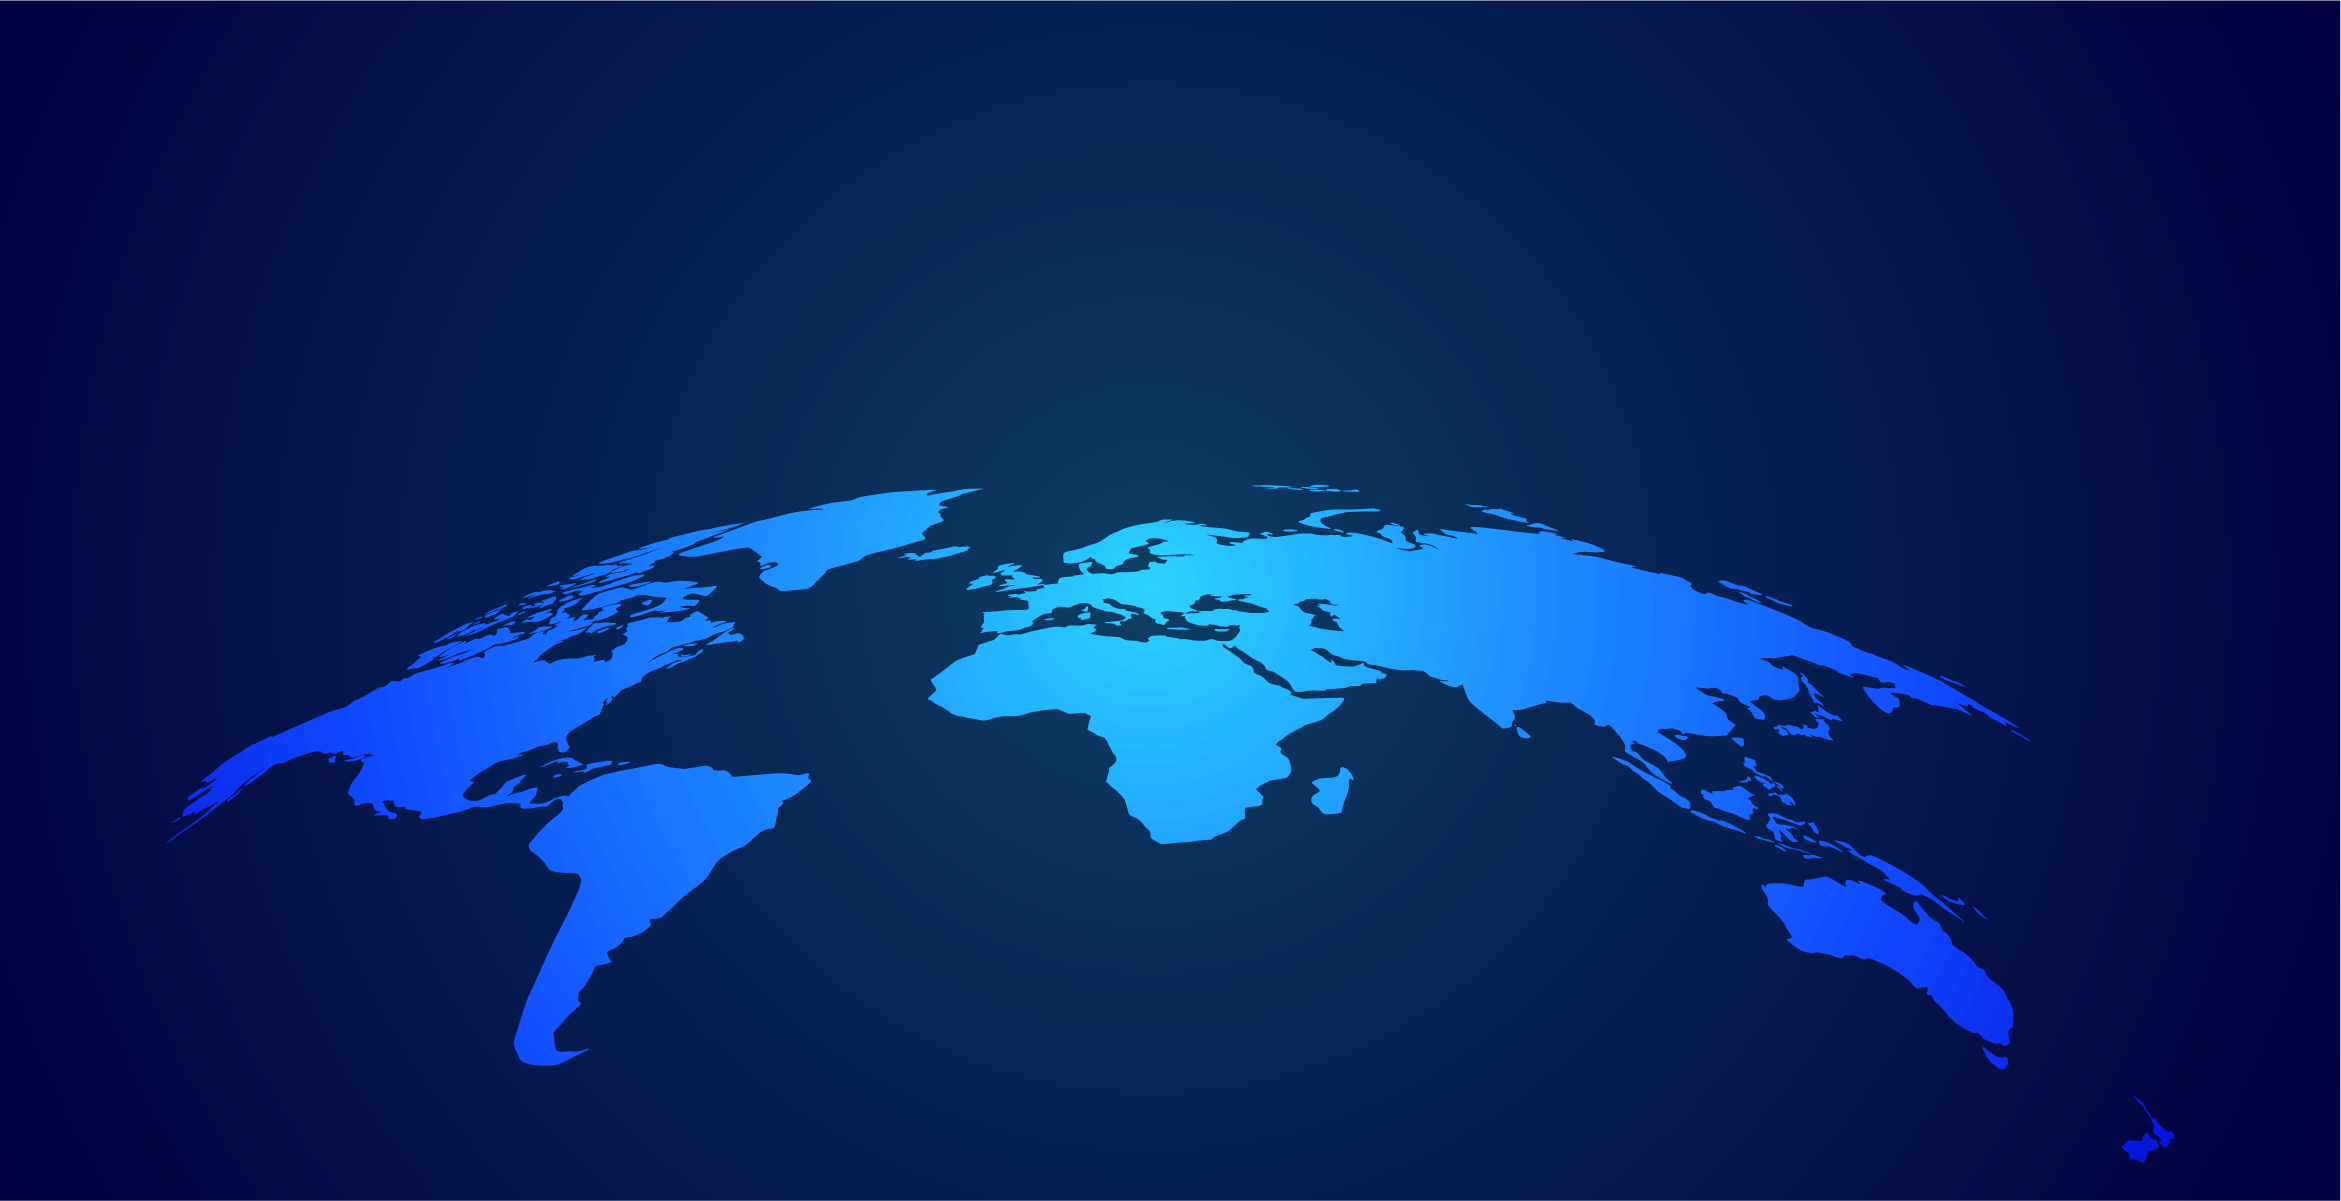
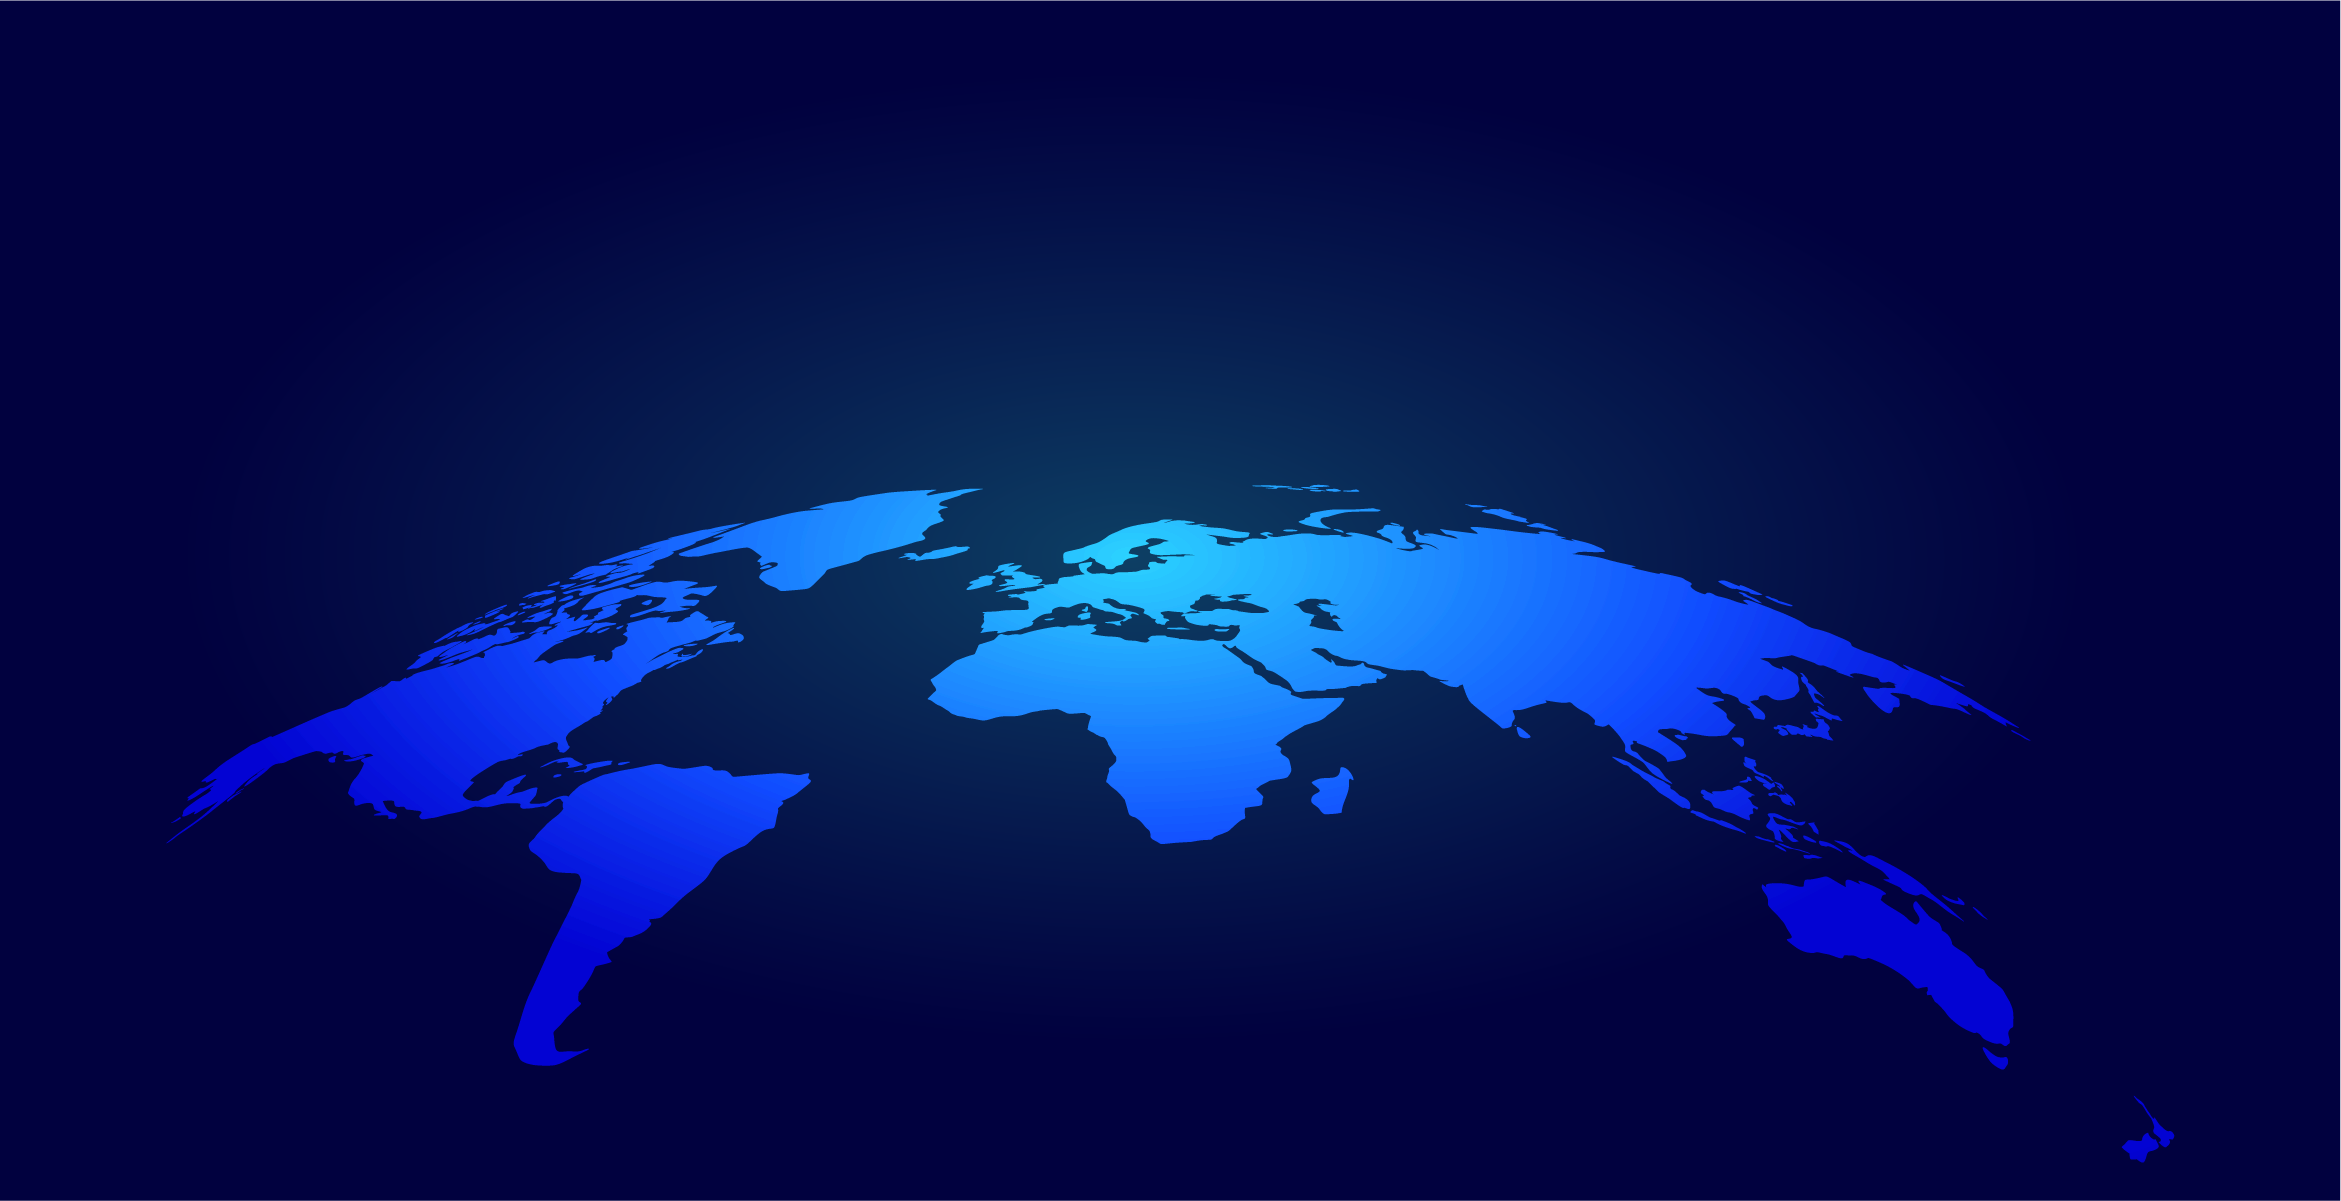
some more changes added

Changed region(s): [[0.0624, 0.4313, 0.8731, 1.0], [0.2183, 0.0, 0.7484, 0.2157], [0.8419, 0.5853, 0.8731, 0.6162]]

diff --git a/assets/css/app.css b/assets/css/app.css
@@ -1,10 +1,10 @@
-@import url('https://fonts.googleapis.com/css2?family=Eczar:wght@400;500&display=swap');
+@import url('https://fonts.googleapis.com/css2?family=Poppins:wght@300;400;500&display=swap');
 body{
     overflow-x: hidden;
     /* background: rgb(3,62,134); */
     /* background: radial-gradient(circle, rgba(3,62,134,1) 13%, rgba(0,11,115,1) 65%); */
     color: white;
-    font-family: 'Eczar', serif;
+    font-family: 'Poppins', sans-serif;    
     font-size: 13px;
 
 }
@@ -25,10 +25,12 @@ body{
 }
 h1.main_head{
     text-align: center;
+    font-size: 33px;
+    margin-bottom: 15px;
 }
 p.main_para{
     text-align: center;
-    font-size: 18px;
+    font-size: 16px;
     margin-bottom: 80px;
     width: 50%;
     margin: auto;
@@ -36,12 +38,13 @@ p.main_para{
 h3.side_head{
     background-color: #f4d03f;
     background-image: linear-gradient(132deg, #f4d03f 0%, #16a085 100%);
+    font-size: 20px;
     -webkit-background-clip: text;
     color: transparent;
 }
 .country_name{
     padding: 10px 20px;
-    font-size: 20px;
+    font-size: 16px;
     font-weight: 600;
     color: #218dd1;
 }
@@ -55,20 +58,25 @@ h3.side_head{
     opacity: 0;
     scale: 0.1;
     height: 150px;
-    margin-top: -65%;
+    margin-top: -85%;
 }
 .second-panel{
     width: 250px;
     opacity: 0;
     scale: 0.1;
     height: 150px;
-    margin-top: -65%;
+    margin-top: -85%;
 }
 .hello{
     min-height: 60vh;
     display: flex;
     justify-content: center;
     align-items: center;
-    background: rgb(9,45,89);
-    background: radial-gradient(circle, rgba(9,45,89,1) 0%, rgba(2,6,66,1) 42%);
+    background: #01013f;
+}
+#hello{
+    min-height: 125vh;
+}
+p{
+    font-size: 11px;
 }

diff --git a/index.html b/index.html
@@ -29,13 +29,7 @@
 
     <div class="space"></div>
     
-    <div class="first-hello hello">
-      <div class="panel d-none">
-        <span>20-11-2022</span>
-        <h3 class="side_head cursor-scale">This is Heading</h3>
-        <p class="cursor-scale">Lorem ipsum, dolor sit amet consectetur adipisicing elit. Eum Lorem ipsum dolor, sit amet consectetur adipisicing elit. Esse, cupiditate? voluptates veritatis doloribus amet quasi deleniti?</p>
-      </div>
-    </div>
+    <div class="first-hello hello" id="hello"></div>
     <div class="first-hello hello">
       <div class="panel">
         <span>20-11-2022</span>
